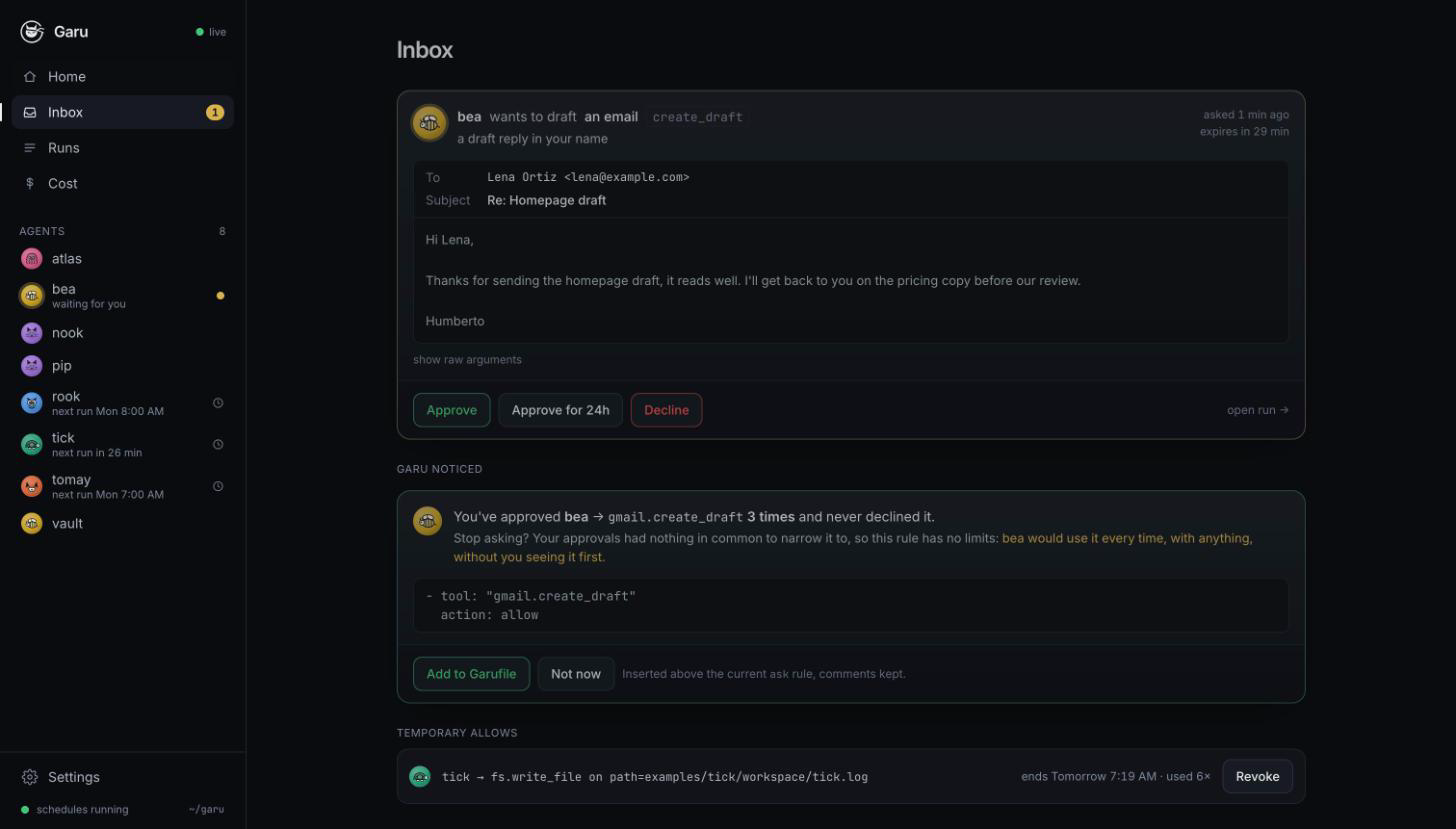
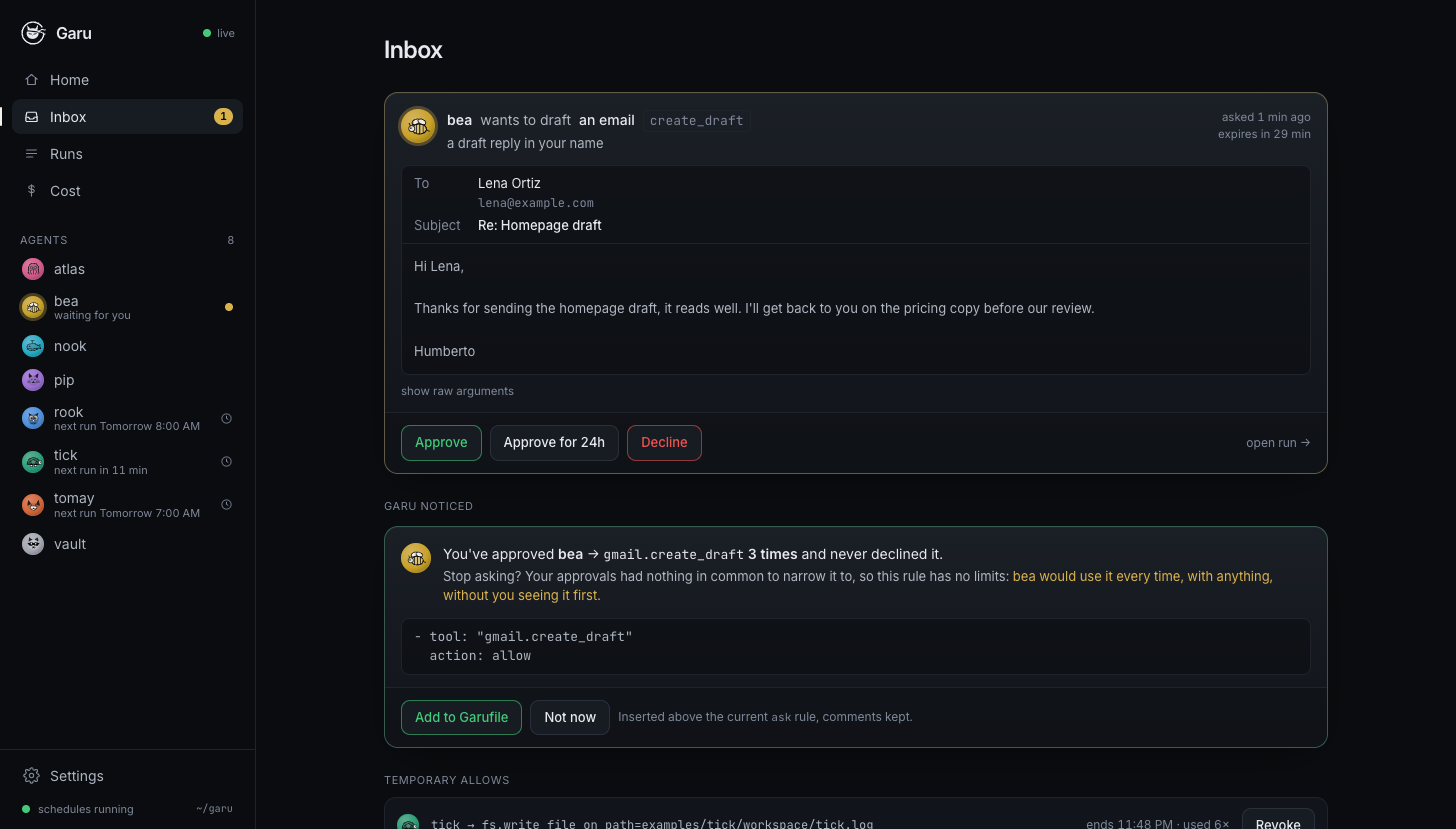
docs: fresh screenshots with the new Home and faces
The screenshots showed the old Home, Nook and Vault with the faces they shared with Pip and Bea, and recipients as "Lena Ortiz <lena@example.com>". All six are retaken from the demo data: Home now shows Bea's draft and "Latest from your agents" with Pip's notes and Tomay's brief (it's also the site's link preview), plus the Inbox, Tomay's page, a run, Cost and the phone Inbox. Pip's sample run in the demo data now writes a real summary of its notes.md instead of a placeholder. The working notes have the right test count and drop the app rebuild, which is done.

diff --git a/CLAUDE.md b/CLAUDE.md
@@ -47,7 +47,7 @@ docs/video/remotion the launch video's source (Remotion 4, React); see "Launch v
 
 ```
 npm install && npm run build          # all workspaces
-npm run typecheck && npm test         # tsc -b, vitest (162 tests); run before every commit
+npm run typecheck && npm test         # tsc -b, vitest (205 tests); run before every commit
 npx svelte-check --workspace packages/ui
 npm run garu -- <cmd>                 # the CLI from the repo (no global install yet)
 npm run garu -- service install|status|logs|restart|uninstall   # Garu as a login service (launchd)
@@ -117,7 +117,7 @@ browser's clock and schedules follow the server's `TZ`, so set both to the same 
 Built: kernel, CLI, control room, Android debug app, login service, catch-up, brand, Owner's Guide,
 launch video v7, onboarding and UI audit fixes (2026-10-10). Open: the run timeline still shows
 seconds and "ok · 340ms" (allowed by a comment in `format.ts`, against the rule above: Humberto to
-decide). The phone app on the emulator needs a rebuild to get the new intro.
+decide).
 
 Not launching yet. Order: understand → real app → Play closed test → launch → beyond. Still on the
 real-app list: crash screen, accessibility pass, theme setting, release signing (Humberto makes the
